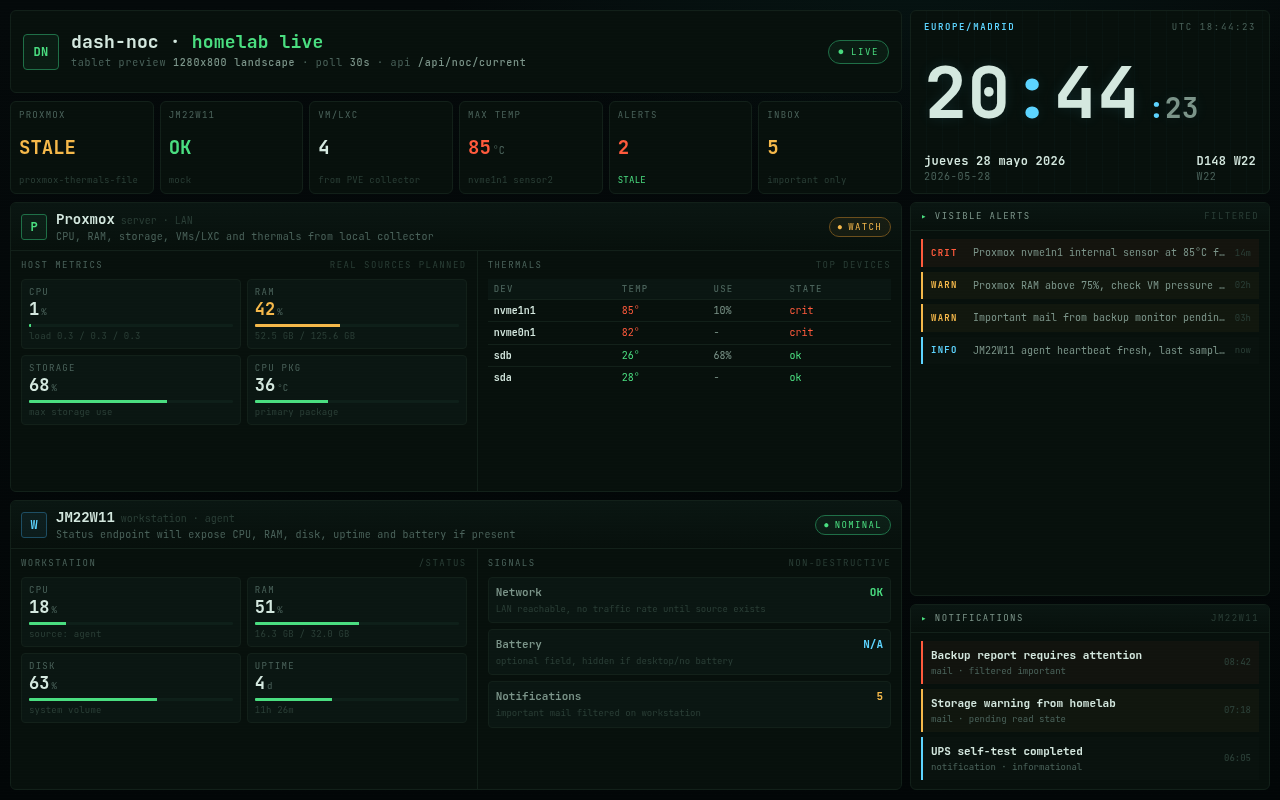
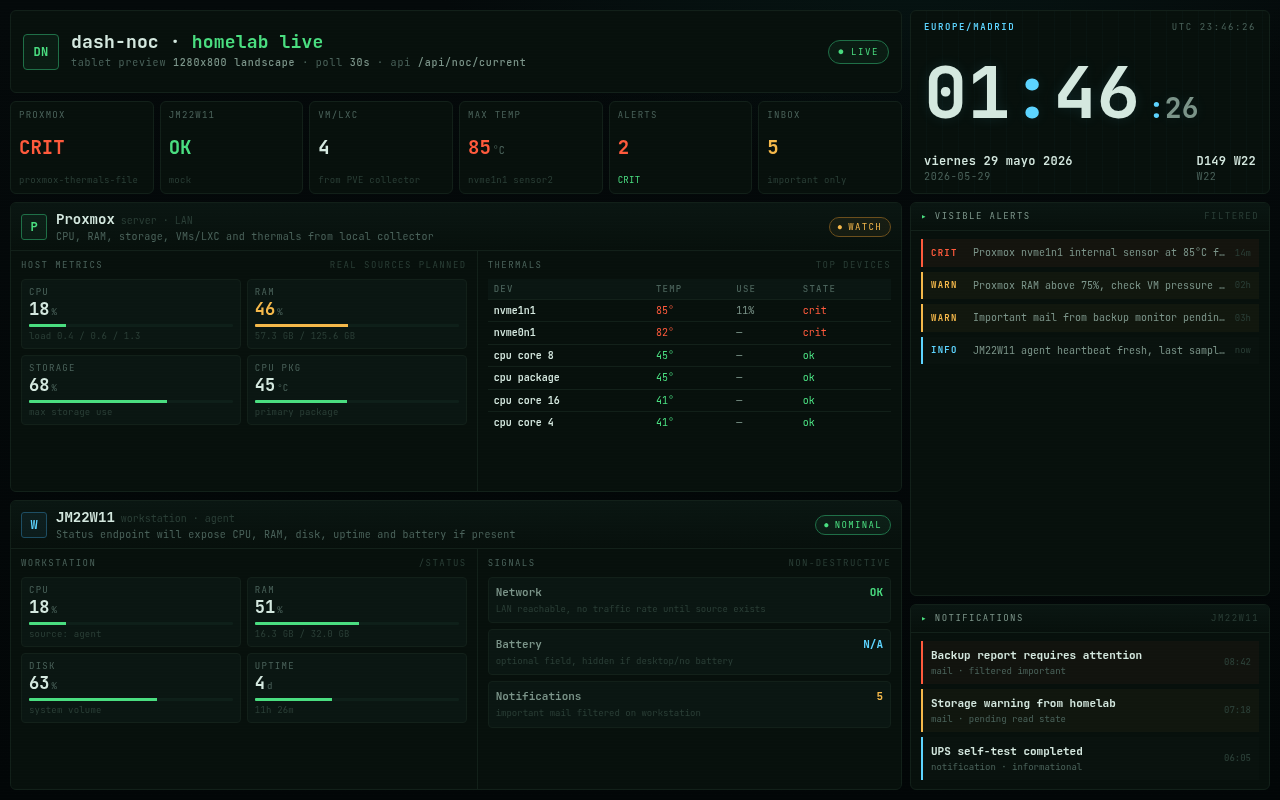
Connect Proxmox live refresh

diff --git a/docs/design/previews/tablet-noc.html b/docs/design/previews/tablet-noc.html
@@ -896,7 +896,7 @@
           <div class="section-title"><span>Thermals</span><span>top devices</span></div>
           <table class="table">
             <thead><tr><th>Dev</th><th>Temp</th><th>Use</th><th>State</th></tr></thead>
-            <tbody>
+            <tbody data-proxmox-thermals>
               <tr><td class="name">nvme1n1</td><td class="is-crit">85°</td><td>10%</td><td class="is-crit">crit</td></tr>
               <tr><td class="name">nvme0n1</td><td class="is-crit">82°</td><td>-</td><td class="is-crit">crit</td></tr>
               <tr><td class="name">sdb</td><td class="is-ok">26°</td><td>68%</td><td class="is-ok">ok</td></tr>
@@ -1001,6 +1001,11 @@ function formatPercent(value) {
   return String(Math.round(value));
 }
 
+function formatDecimal(value, digits = 0) {
+  if (typeof value !== "number") return "—";
+  return value.toFixed(digits);
+}
+
 function formatBytes(value) {
   if (typeof value !== "number") return "—";
   const gib = value / 1024 / 1024 / 1024;
@@ -1073,6 +1078,43 @@ function applyBars(payload) {
   });
 }
 
+function proxmoxThermalValue(item) {
+  if (typeof item.sensor2_c === "number") return item.sensor2_c;
+  if (typeof item.temperature_c === "number") return item.temperature_c;
+  return null;
+}
+
+function thermalDisplayName(item) {
+  if (item.id?.startsWith("cpu_")) return item.label || item.id;
+  return item.id || item.label || "unknown";
+}
+
+function renderProxmoxThermals(payload) {
+  const tbody = document.querySelector("[data-proxmox-thermals]");
+  if (!tbody) return;
+
+  const rows = (payload.proxmox?.temperatures || [])
+    .filter((item) => proxmoxThermalValue(item) !== null)
+    .sort((a, b) => proxmoxThermalValue(b) - proxmoxThermalValue(a))
+    .slice(0, 6);
+
+  if (!rows.length) return;
+
+  tbody.innerHTML = rows.map((item) => {
+    const state = item.state || "unknown";
+    const temp = proxmoxThermalValue(item);
+    const used = typeof item.used_percent === "number" ? `${formatDecimal(item.used_percent, 0)}%` : "—";
+    return `
+      <tr>
+        <td class="name">${thermalDisplayName(item)}</td>
+        <td class="is-${state}">${formatDecimal(temp, 0)}°</td>
+        <td>${used}</td>
+        <td class="is-${state}">${state}</td>
+      </tr>
+    `;
+  }).join("");
+}
+
 async function refreshNoc() {
   if (!location.protocol.startsWith("http")) return;
   try {
@@ -1081,6 +1123,7 @@ async function refreshNoc() {
     const payload = await response.json();
     document.querySelectorAll("[data-bind]").forEach((element) => applyBinding(element, payload));
     applyBars(payload);
+    renderProxmoxThermals(payload);
   } catch {
     return;
   }

diff --git a/src/dash_noc/api.py b/src/dash_noc/api.py
@@ -2,6 +2,8 @@ from __future__ import annotations
 
 import json
 import os
+import subprocess
+import threading
 from datetime import UTC, datetime, timedelta
 from http import HTTPStatus
 from http.server import BaseHTTPRequestHandler, ThreadingHTTPServer
@@ -10,6 +12,9 @@ from typing import Any
 from urllib.parse import urlparse
 
 from dash_noc import __version__
+
+
+PROXMOX_REFRESH_LOCK = threading.Lock()
 
 
 def utc_now() -> datetime:
@@ -39,6 +44,21 @@ def proxmox_current_json_path() -> Path:
     if configured:
         return Path(configured)
     return Path("/projects/proxmox-thermals/data/current.json")
+
+
+def proxmox_collect_script_path() -> Path:
+    configured = os.environ.get("DASH_NOC_PROXMOX_COLLECT_SCRIPT")
+    if configured:
+        return Path(configured)
+    return Path("/projects/proxmox-thermals/scripts/collect_once.py")
+
+
+def proxmox_max_age_seconds() -> int:
+    configured = os.environ.get("DASH_NOC_PROXMOX_MAX_AGE", "30")
+    try:
+        return max(0, int(configured))
+    except ValueError:
+        return 30
 
 
 def parse_iso_z(value: str) -> datetime | None:
@@ -89,6 +109,56 @@ def health_payload() -> dict[str, Any]:
         "version": __version__,
         "time": iso_z(utc_now()),
     }
+
+
+def load_proxmox_current_json() -> dict[str, Any] | None:
+    path = proxmox_current_json_path()
+    if not path.exists():
+        return None
+
+    try:
+        return json.loads(path.read_text(encoding="utf-8"))
+    except (OSError, json.JSONDecodeError):
+        return None
+
+
+def refresh_proxmox_current_json(timeout_seconds: int = 25) -> tuple[bool, str | None]:
+    script = proxmox_collect_script_path()
+    if not script.exists():
+        return False, "collector script not found"
+
+    if not PROXMOX_REFRESH_LOCK.acquire(blocking=False):
+        return False, "collector busy"
+
+    try:
+        env = os.environ.copy()
+        env["PROXMOX_THERMALS_DATA_DIR"] = str(proxmox_current_json_path().parent)
+        subprocess.run(
+            ["/usr/bin/python3", str(script)],
+            check=True,
+            timeout=timeout_seconds,
+            env=env,
+            stdout=subprocess.DEVNULL,
+            stderr=subprocess.DEVNULL,
+        )
+        return True, None
+    except subprocess.TimeoutExpired:
+        return False, "collector timeout"
+    except subprocess.CalledProcessError:
+        return False, "collector failed"
+    finally:
+        PROXMOX_REFRESH_LOCK.release()
+
+
+def ensure_fresh_proxmox_snapshot(now: datetime) -> tuple[dict[str, Any] | None, str | None]:
+    raw = load_proxmox_current_json()
+    age = age_seconds((raw or {}).get("timestamp"), now) if raw else None
+    refresh_enabled = os.environ.get("DASH_NOC_PROXMOX_REFRESH", "1") != "0"
+    if refresh_enabled and (age is None or age > proxmox_max_age_seconds()):
+        refreshed, reason = refresh_proxmox_current_json()
+        fresh_raw = load_proxmox_current_json()
+        return fresh_raw or raw, None if refreshed else reason
+    return raw, None
 
 
 def mock_proxmox(now: datetime) -> dict[str, Any]:
@@ -162,13 +232,8 @@ def mock_proxmox(now: datetime) -> dict[str, Any]:
 
 
 def proxmox_from_current_json(now: datetime) -> dict[str, Any] | None:
-    path = proxmox_current_json_path()
-    if not path.exists():
-        return None
-
-    try:
-        raw = json.loads(path.read_text(encoding="utf-8"))
-    except (OSError, json.JSONDecodeError):
+    raw, refresh_warning = ensure_fresh_proxmox_snapshot(now)
+    if raw is None:
         return None
 
     sampled_at = raw.get("timestamp")
@@ -178,6 +243,7 @@ def proxmox_from_current_json(now: datetime) -> dict[str, Any] | None:
     load = raw.get("load") or {}
     storages = raw.get("storages") or {}
     disks = raw.get("disks") or {}
+    filesystems = raw.get("filesystems") or {}
     temperatures_raw = raw.get("temperatures") or {}
 
     temperature_items: list[dict[str, Any]] = []
@@ -206,12 +272,22 @@ def proxmox_from_current_json(now: datetime) -> dict[str, Any] | None:
         temp = disk.get("temperature_c")
         sensor2 = disk.get("sensor2_c")
         effective = sensor2 if isinstance(sensor2, (int, float)) else temp
+        disk_used_percent = None
+        for mountpoint in disk.get("mountpoints") or []:
+            fs = filesystems.get(mountpoint)
+            if fs and isinstance(fs.get("used_percent"), (int, float)):
+                candidate = float(fs["used_percent"])
+                disk_used_percent = candidate if disk_used_percent is None else max(disk_used_percent, candidate)
         item = {
             "id": disk.get("linux_name") or serial,
             "label": disk.get("role") or disk.get("linux_name") or serial,
             "device": disk.get("device"),
             "temperature_c": temp,
             "sensor2_c": sensor2,
+            "used_percent": disk_used_percent,
+            "mountpoints": disk.get("mountpoints") or [],
+            "model": disk.get("model"),
+            "serial": serial,
             "state": temp_state(effective),
         }
         temperature_items.append(item)
@@ -243,7 +319,7 @@ def proxmox_from_current_json(now: datetime) -> dict[str, Any] | None:
     if age is None or age > 300:
         status = "stale"
 
-    return {
+    payload = {
         "status": status,
         "source": "proxmox-thermals-file",
         "sampled_at": sampled_at,
@@ -265,6 +341,9 @@ def proxmox_from_current_json(now: datetime) -> dict[str, Any] | None:
         "vms": raw.get("vms_running") or [],
         "lxc": [],
     }
+    if refresh_warning:
+        payload["refresh_warning"] = refresh_warning
+    return payload
 
 
 def proxmox_payload(now: datetime) -> dict[str, Any]:

diff --git a/README.md b/README.md
@@ -39,6 +39,9 @@ Variables utiles:
 - `DASH_NOC_PORT`: puerto HTTP. Por defecto `8124`.
 - `DASH_NOC_FRONTEND_HTML`: HTML servido en `/`. Por defecto `docs/design/previews/tablet-noc.html`.
 - `DASH_NOC_PROXMOX_CURRENT_JSON`: snapshot local de `proxmox-thermals`. Por defecto `/projects/proxmox-thermals/data/current.json`.
+- `DASH_NOC_PROXMOX_MAX_AGE`: edad maxima del snapshot Proxmox antes de refrescar. Por defecto `30`.
+- `DASH_NOC_PROXMOX_REFRESH`: `1` refresca con el collector, `0` solo lee el JSON existente. Por defecto `1`.
+- `DASH_NOC_PROXMOX_COLLECT_SCRIPT`: script collector. Por defecto `/projects/proxmox-thermals/scripts/collect_once.py`.
 
 Endpoints iniciales:
 

diff --git a/docs/tasks.md b/docs/tasks.md
@@ -25,6 +25,8 @@
 
 ## Next
 
+- [x] Refrescar datos Proxmox desde `proxmox-thermals` cada 30s si el snapshot esta viejo.
+- [x] Renderizar tabla Proxmox thermals desde `/api/noc/current`.
 - [ ] Convertir alertas/notificaciones de la preview a render dinamico completo.
 - [ ] Crear servicio systemd para API central.
 - [ ] Definir contrato interno del agente `JM22W11`.